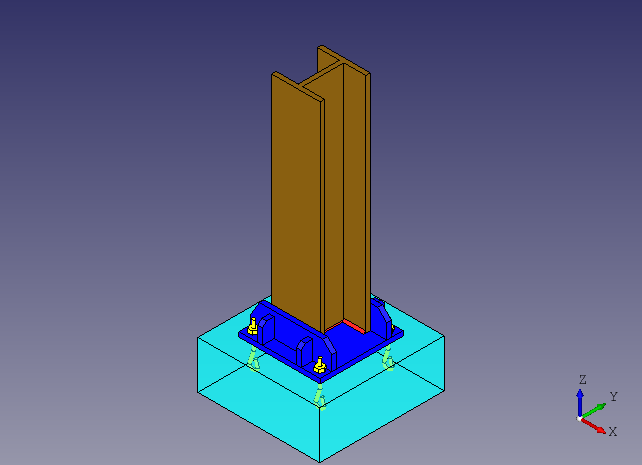
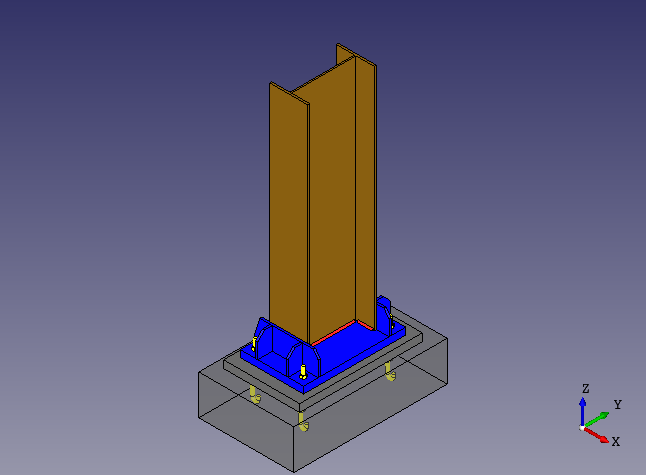
Added rectangular grout to paseplate connection for time being Added Gray25 color to the concrete and grout

Changed region(s): [[0.2804, 0.0903, 0.7165, 0.9935], [0.8723, 0.843, 0.9657, 0.9333]]

diff --git a/cad/BasePlateCad/baseplateconnection.py b/cad/BasePlateCad/baseplateconnection.py
@@ -14,7 +14,7 @@ from OCC.Core.BRepAlgoAPI import BRepAlgoAPI_Fuse
 
 class BasePlateCad(object):
     def __init__(self, BP, column, nut_bolt_array, bolthight, baseplate, weldAbvFlang, weldBelwFlang, weldSideWeb,
-                 concrete, gusset, stiffener):
+                 concrete, gusset, stiffener, grout):
 
         """
 
@@ -38,6 +38,7 @@ class BasePlateCad(object):
         self.concrete = concrete
         self.gusset = gusset
         self.stiffener = stiffener
+        self.grout = grout
 
         # self.alist = None #alist
         # self.columnModel = None
@@ -84,6 +85,7 @@ class BasePlateCad(object):
         self.createWeldGeometry()
         self.createConcreteGeometry()
         self.create_nut_bolt_array()
+        self.createGroutGeometry()
 
     def createColumnGeometry(self):
         """
@@ -233,12 +235,24 @@ class BasePlateCad(object):
 
         self.nutBoltArrayModels = self.nut_bolt_array.create_model()
 
+    def createGroutGeometry(self):
+        """
+        :return: Geometric Orientaion of grout
+        """
+        groutOriginL = numpy.array([-self.grout.W / 2, 0.0, -self.baseplate.T - self.grout.T / 2])
+        groutL_uDir = numpy.array([0.0, 0.0, 1.0])
+        groutL_wDir = numpy.array([1.0, 0.0, 0.0])
+        self.grout.place(groutOriginL, groutL_uDir, groutL_wDir)
+
+        self.groutModel = self.grout.create_model()
+
     def createConcreteGeometry(self):
         """
 
         :return: Geometric Orientation of concrete
         """
-        concreteOrigin = numpy.array([-self.concrete.W / 2, 0.0, -self.baseplate.T - self.concrete.T / 2])
+        concreteOrigin = numpy.array(
+            [-self.concrete.W / 2, 0.0, -self.baseplate.T - self.grout.T - self.concrete.T / 2])
         # concrete_uDir = numpy.array([1.0, 0.0, 0.0])
         # concrete_wDir = numpy.array([0.0, 0.0, 1.0])
         concrete_uDir = numpy.array([0.0, 0.0, 1.0])
@@ -288,6 +302,11 @@ class BasePlateCad(object):
 
         return plate
 
+    def get_grout_models(self):
+        grout = self.groutModel
+
+        return grout
+
     def get_concrete_models(self):
         conc = self.concreteModel
         return conc
@@ -311,8 +330,9 @@ class BasePlateCad(object):
         welds = self.get_welded_models()
         nut_bolt_array = self.get_nut_bolt_array_models()
         conc = self.get_concrete_models()
+        grt = self.get_grout_models()
 
-        CAD_list = [column, plate_connectors, welds, nut_bolt_array, conc] #, welds, nut_bolt_array]
+        CAD_list = [column, plate_connectors, welds, nut_bolt_array, conc, grt]  # , welds, nut_bolt_array]
         CAD = CAD_list[0]
 
         for model in CAD_list[1:]:
@@ -332,6 +352,7 @@ if __name__ == '__main__':
     from cad.items.anchor_bolt import *
     from cad.items.nut import Nut
     from cad.items.stiffener_plate import StiffenerPlate
+    from cad.items.concrete import Concrete
 
     import OCC.Core.V3d
     from OCC.Core.Quantity import Quantity_NOC_SADDLEBROWN, Quantity_NOC_BLUE1
@@ -340,6 +361,7 @@ if __name__ == '__main__':
     # from cad.common_logic import CommonDesignLogic
 
     from OCC.gp import gp_Pnt
+    from OCC.Core.Graphic3d import Quantity_NOC_GRAY as GRAY
     from OCC.Display.SimpleGui import init_display
 
     display, start_display, add_menu, add_function_to_menu = init_display()
@@ -351,6 +373,7 @@ if __name__ == '__main__':
     weldSideWeb = FilletWeld(b=10, h=10, L=420)
     # concrete = Concrete(L= baseplate.W*1.5, W= baseplate.L*1.5, T= baseplate.T*10)
     concrete = Plate(L=baseplate.L * 1.5, W=baseplate.W * 1.5, T=baseplate.T * 10)
+    grout = Concrete(L=baseplate.L + 200, W=baseplate.W + 200, T=50)
 
     gusset = StiffenerPlate(L=baseplate.W, W=200, T=14, L11=(baseplate.W - (column.B + 100)) / 2, L12=200 - 100,
                             R11=(baseplate.W - (column.B + 100)) / 2, R12=200 - 100)
@@ -373,7 +396,7 @@ if __name__ == '__main__':
     nut_bolt_array = NutBoltArray(column, baseplate,  nut, bolt, numberOfBolts, nutSpace)
 
     basePlate = BasePlateCad(column, nut_bolt_array, bolthight, baseplate, weldAbvFlang, weldBelwFlang, weldSideWeb,
-                             concrete, gusset, stiffener, type)
+                             concrete, gusset, stiffener, grout)
 
     basePlate.create_3DModel()
     prism = basePlate.get_models()
@@ -382,6 +405,7 @@ if __name__ == '__main__':
     weld = basePlate.get_welded_models()
     nut_bolt = basePlate.get_nut_bolt_array_models()
     conc = basePlate.get_concrete_models()
+    grt = basePlate.get_grout_models()
 
     Point = gp_Pnt(0.0, 0.0, 0.0)
     display.DisplayMessage(Point, "Origin")
@@ -394,12 +418,11 @@ if __name__ == '__main__':
     display.DisplayColoredShape(plate, color='BLUE', update=True)
     display.DisplayColoredShape(weld, color='RED', update=True)
     display.DisplayColoredShape(nut_bolt, color='YELLOW', update=True)
-    display.DisplayShape(conc, color='CYAN', transparency=0.5,  update=True)
+    display.DisplayShape(conc, color=GRAY, transparency=0.5, update=True)
+    display.DisplayShape(grt, colour=GRAY, update=True)
     display.DisableAntiAliasing()
     start_display()
     # display.ExportToImage("/home/rahul/Osdag_workspace/3DtestbasePlatw.png")
-
-
 
     # display = CommonDesignLogic.display
     # display.EraseAll()

diff --git a/cad/common_logic.py b/cad/common_logic.py
@@ -80,6 +80,7 @@ from Common import *
 import OCC.Core.V3d
 from OCC.Core.Quantity import Quantity_NOC_SADDLEBROWN, Quantity_NOC_BLUE1
 from OCC.Core.Graphic3d import Graphic3d_NOT_2D_ALUMINUM
+from OCC.Core.Quantity import Quantity_NOC_GRAY25 as GRAY
 
 # from Connections.Shear.Finplate.drawing_2D import FinCommonData
 # from Connections.Shear.Endplate.drawing_2D import EndCommonData
@@ -700,35 +701,42 @@ class CommonDesignLogic(object):
         weldSideWeb = FilletWeld(b=float(BP.weld_size_web), h=float(BP.weld_size_web),
                                  L=column.D - 2 * (column.t + column.R1))
 
-        concrete = Plate(L=baseplate.L * 1.5, W=baseplate.W * 1.5, T=baseplate.T * 10)
-
         gusset = StiffenerPlate(L=BP.gusset_plate_length, W=BP.gusset_plate_height, T=BP.gusset_plate_thick,
                                 L11=(BP.gusset_plate_length - (column.B + 100)) / 2, L12=BP.gusset_plate_height - 100,
                                 R11=(baseplate.W - (column.B + 100)) / 2, R12=200 - 100)
         stiffener = StiffenerPlate(L=BP.stiffener_plate_length, W=BP.stiffener_plate_height, T=BP.stiffener_plate_thick,
                                    L11=BP.stiffener_plate_length - 50, L12=BP.stiffener_plate_height - 100)
 
-        ex_length = (50 + 24 + baseplate.T)  # nut.T = 24
-        BOLT_D
+        concrete = Plate(L=baseplate.L * 1.5, W=baseplate.W * 1.5, T=BP.anchor_length_provided * 1.3)
+        grout = Plate(L=baseplate.L * 1.2, W=baseplate.W * 1.2, T=50)
 
-        if BP.anchor_type == 'IS 5624-Type A':
+        bolt_d = float(BP.anchor_dia_provided)
+        bolt_r = bolt_d / 2  # Bolt radius (Shank part)
+        bolt_R = self.boltHeadDia_Calculation(bolt_d) / 2  # Bolt head diameter (Hexagon)
+        # bolt_T = self.boltHeadThick_Calculation(bolt_d)      # Bolt head thickness
+        nut_T = self.nutThick_Calculation(bolt_d)  # Nut thickness, usually nut thickness = nut height
+        nut_HT = nut_T
+
+        ex_length = (50 + 24 + baseplate.T + grout.T)  # nut.T = 24
+        if BP.dp_anchor_type == 'IS 5624-Type A':
             bolt = AnchorBolt_A(l=float(BP.anchor_length_provided), c=125, a=75, r=float(BP.anchor_dia_provided) / 2,
                                 ex=ex_length)
-        elif BP.anchor_type == 'IS 5624-Type B':
+        elif BP.dp_anchor_type == 'IS 5624-Type B':
             bolt = AnchorBolt_B(l=float(BP.anchor_length_provided), r=float(BP.anchor_dia_provided) / 2, ex=ex_length)
-        elif BP.anchor_type == 'End Plate Type':
+        elif BP.dp_anchor_type == 'End Plate Type':
             bolt = AnchorBolt_Endplate(l=float(BP.anchor_length_provided), r=float(BP.anchor_dia_provided) / 2,
                                        ex=ex_length)
 
-        nut = Nut(R=bolt.r * 3, T=24, H=30, innerR1=bolt.r)
+        nut = Nut(R=bolt_R, T=nut_T, H=nut_HT, innerR1=bolt_r)
         numberOfBolts = 4
         nutSpace = bolt.c + baseplate.T
         bolthight = nut.T + 50
 
+
         nut_bolt_array = bpNutBoltArray(column, baseplate, nut, bolt, numberOfBolts, nutSpace)
 
         basePlate = BasePlateCad(BP, column, nut_bolt_array, bolthight, baseplate, weldAbvFlang, weldBelwFlang,
-                                 weldSideWeb, concrete, gusset, stiffener)
+                                 weldSideWeb, concrete, gusset, stiffener, grout)
         basePlate.create_3DModel()
 
         return basePlate
@@ -875,13 +883,15 @@ class CommonDesignLogic(object):
                 weld = self.BPObj.get_welded_models()
                 nut_bolt = self.BPObj.get_nut_bolt_array_models()
                 conc = self.BPObj.get_concrete_models()
+                grout = self.BPObj.get_grout_models()
 
                 if self.component == "Model":  # Todo: change this into key
                     osdag_display_shape(self.display, column, update=True)
                     osdag_display_shape(self.display, plate, color='Blue', update=True)
                     osdag_display_shape(self.display, weld, color='RED', update=True)
                     osdag_display_shape(self.display, nut_bolt, color='YELLOW', update=True)
-                    osdag_display_shape(self.display, conc, color='CYAN', transparency=0.5, update=True)
+                    osdag_display_shape(self.display, conc, color=GRAY, transparency=0.5, update=True)
+                    osdag_display_shape(self.display, grout, color=GRAY, update=True)
 
                 elif self.connection == "Column":
                     osdag_display_shape(self.display, column, update=True)

diff --git a/cad/items/concrete.py b/cad/items/concrete.py
@@ -1,13 +1,16 @@
 '''
-Created on 29-Nov-2014
+Created on 29-March-2020
 
-@author: deepa
-@author: deepa
+@author: Anand Swaroop
 '''
 import numpy
 from cad.items.ModelUtils import *
-from OCC.Core.BRepPrimAPI import BRepPrimAPI_MakeBox
+from OCC.Core.BRepPrimAPI import BRepPrimAPI_MakeBox, BRepPrimAPI_MakeWedge
+from OCC.Core.gp import gp_Dir, gp_Circ, gp_Ax2, gp_Ax1
+from OCC.Core.BRepAlgoAPI import BRepAlgoAPI_Fuse
 
+
+# from OCC.Core.gp import gp_Ax1
 
 
 class Concrete(object):
@@ -48,10 +51,10 @@ v dir                                    |   |                          |
         self.W = W
         self.T = T
         self.sec_origin = numpy.array([0, 0, 0])
-        self.uDir = numpy.array([1.0, 0, 0])
-        self.wDir = numpy.array([0.0, 0, 1.0])
-        self.vDir = self.wDir * self.uDir
-        self.compute_params()
+        self.uDir = None  # numpy.array([1.0, 0, 0])
+        self.wDir = None  # numpy.array([0.0, 0, 1.0])
+        # self.vDir = self.wDir * self.uDir
+        # self.compute_params()
 
     def place(self, sec_origin, uDir, wDir):
         self.sec_origin = sec_origin
@@ -61,13 +64,35 @@ v dir                                    |   |                          |
 
     def compute_params(self):
         self.vDir = numpy.cross(self.wDir, self.uDir)
-        self.a1 = self.sec_origin - self.L/2*self.uDir
-        self.a2 = self.a1 - self.T/2*self.wDir
-        self.a3 = self.a2 - self.W/2*self.vDir
+        self.wedge_base = self.T
+        self.wedge_height = self.T
+        self.box_length = self.L - 2 * self.wedge_base
+        self.box_width = self.W - 2 * self.wedge_base
+
+        # adjusting origin to the center of the box
+        self.a1 = self.sec_origin - (self.L) / 2 * self.uDir
+        # self.a1 = self.sec_origin - (self.L - 2 * self.wedge_base) / 2 * self.uDir
+        self.a2 = self.a1 - self.T / 2 * self.wDir
+        self.a3 = self.a2 - (self.W) / 2 * self.vDir  # origin of box
+        # self.a3 = self.a2 - (self.W - 2 * self.wedge_base) / 2 * self.vDir  # origin of box
+
+        # creating for corneres of the grout
+        self.p0 = self.sec_origin - self.T / 2 * self.wDir
+        self.p1 = self.p0 + self.L / 2 * self.uDir + self.W / 2 * self.vDir
+        self.p2 = self.p1 - self.W * self.vDir
+        self.p3 = self.p2 - self.L * self.uDir
+        self.p4 = self.p3 + self.W * self.vDir
 
     def create_model(self):
-        prism = BRepPrimAPI_MakeBox(getGpPt(self.a3), self.L, self.W, self.T).Shape()
+        # box = BRepPrimAPI_MakeBox(getGpPt(self.a3), self.box_width, self.box_length, self.wedge_height).Shape()
+        # wedge1_w = BRepPrimAPI_MakeWedge(gp_Ax2(getGpPt(self.p2- self.wedge_base*self.uDir), getGpDir(numpy.array([0.0, 1.0, 0.0]))), self.wedge_height,self.wedge_base,self.W, 0.001).Shape()
+        # prism = BRepAlgoAPI_Fuse(box, wedge1_w).Shape()
+        #
+        # wedge2_w = BRepPrimAPI_MakeWedge(gp_Ax2(getGpPt(self.p3), getGpDir(numpy.array([0.0, 1.0, 0.0]))), 0.001,self.wedge_base,self.W, self.wedge_height).Shape()
+        # prism = BRepAlgoAPI_Fuse(prism, wedge2_w).Shape()
 
+        box = BRepPrimAPI_MakeBox(getGpPt(self.a3), self.L, self.W, self.T).Shape()
+        prism = box
         return prism
 
 
@@ -75,19 +100,24 @@ if __name__ == '__main__':
 
     from OCC.Display.SimpleGui import init_display
     display, start_display, add_menu, add_function_to_menu = init_display()
+    from OCC.gp import gp_Pnt
 
-    L = 10
+    L = 500
     T = 5
-    W = 10
+    W = 300
 
-    origin = numpy.array([0.,0.,0.])
-    uDir = numpy.array([1.,0.,0.])
-    shaftDir = numpy.array([0.,0.,1.])
+    origin = numpy.array([0., 0., 0.])
+    uDir = numpy.array([1., 0., 0.])
+    shaftDir = numpy.array([0., 0., 1.])
 
     channel = Concrete(L, W, T)
     angles = channel.place(origin, uDir, shaftDir)
     point = channel.compute_params()
     prism = channel.create_model()
+
+    Point = gp_Pnt(0.0, 0.0, 0.0)
+    display.DisplayMessage(Point, "Origin")
+
     display.DisplayShape(prism, update=True)
     display.DisableAntiAliasing()
     start_display()
